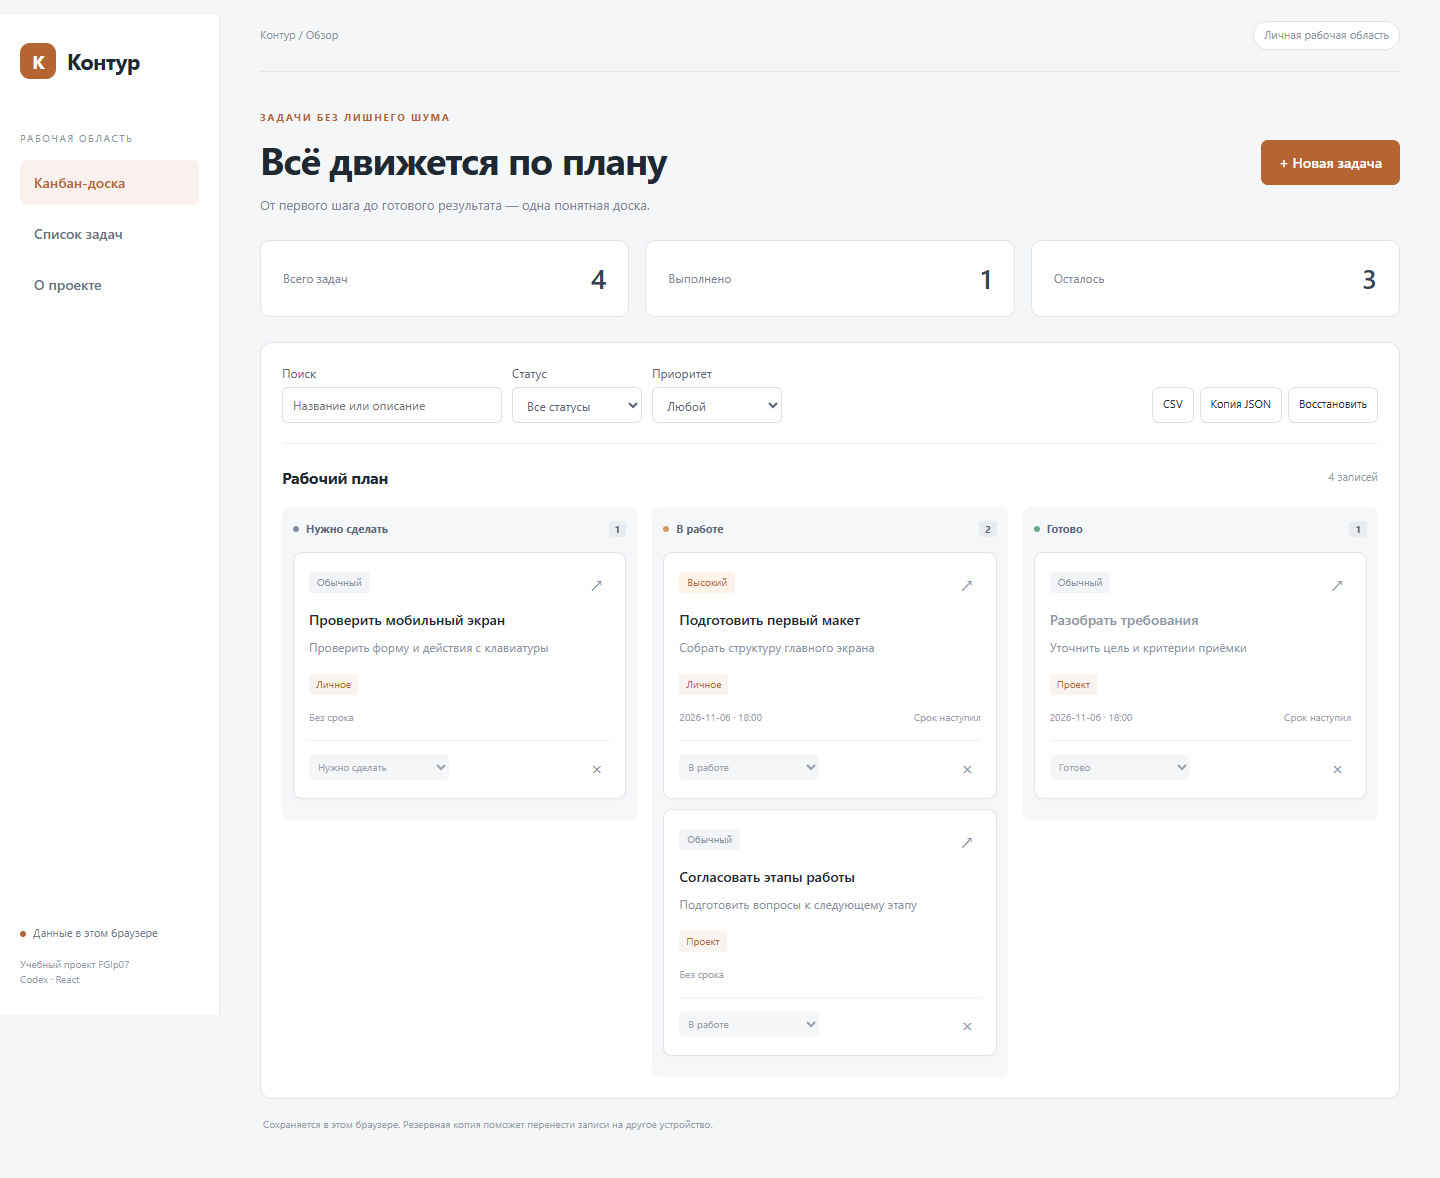
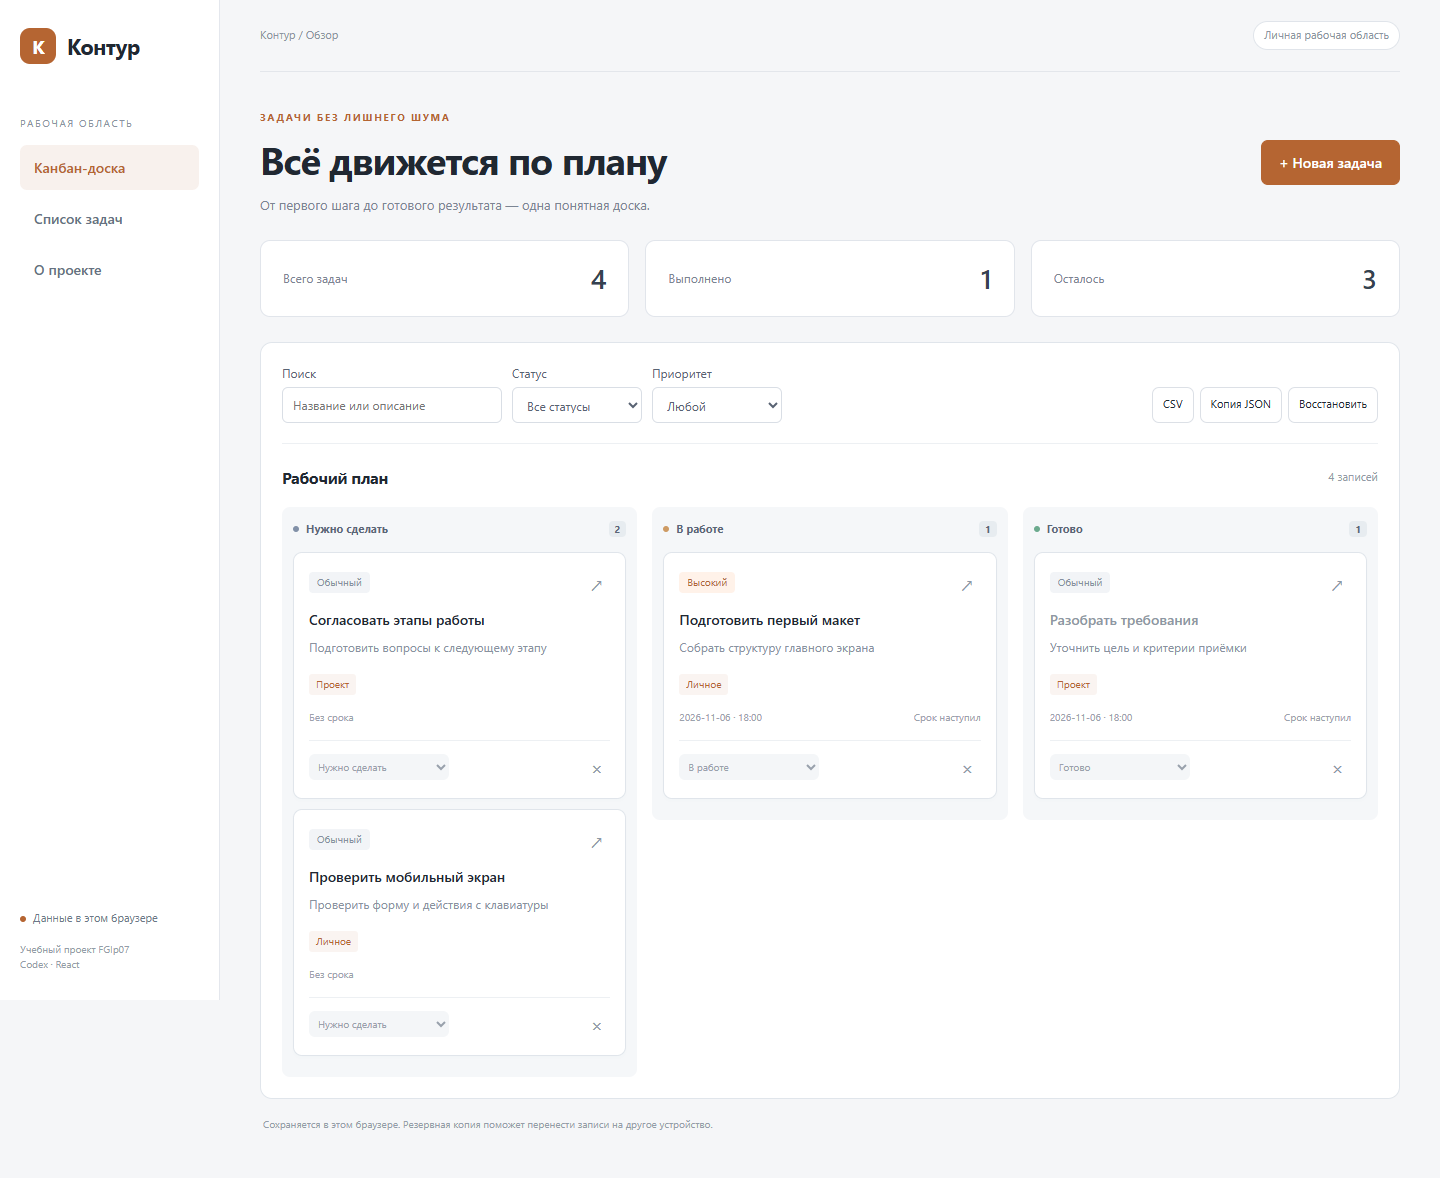
Document live GitVerse Pages links and verified handover

diff --git a/info/CASE.md b/info/CASE.md
@@ -1,0 +1,30 @@
+# Контур
+
+## Задача
+
+Небольшое todo-приложение на React. Детальное ТЗ упомянуто во вложении, которое в открытом просмотре недоступно; для учебного MVP составлена собственная спецификация.
+
+Источник: https://www.fl.ru/projects/5026526/todo-prilojenie-na-react.html
+
+## Что разработал
+
+React; создание, редактирование и удаление задач; три статуса на канбан-доске и список; поиск и приоритеты; сроки; управление с клавиатуры; локальное сохранение; JSON-копия.
+
+Реализовал приложение в Codex на React. Данные сохраняются в браузере, доступны резервная копия и восстановление. Готовый сайт разместил на GitVerse Pages. Общая база и синхронизация устройств не входят в эту версию.
+
+Рабочий сайт: https://denis-zag.gitverse.site/react-kontur/
+Исходники: https://github.com/Denis-Zag/fgip07-react-kontur
+
+## Проверка
+
+16 локальных браузерных сценариев и три проверки опубликованной версии прошли. Проверил работу с записями, перезапуск, ошибки хранения и клавиатуру; ширины 390/768/1440 px. Подробный отчёт: TEST_RESULTS.md.
+
+## Передача и цена
+
+Передаю исходники, готовую папку public, тесты, ТЗ и инструкцию DEPLOY.md для бесплатного размещения на GitVerse Pages под аккаунтом заказчика. Предварительная цена аналогичной разработки — 10 000 ₽. Это моя оценка, а не полученная оплата.
+
+## Границы
+
+Объявление архивное, исполнитель выбран. Недоступное вложение не прочитано. Канбан, приоритеты, фильтры и резервная копия — собственные учебные решения; соответствие закрытому вложению не заявляется.
+
+Учебный кейс по реальному объявлению; заказчику не писал, согласования и приёмки не проводил.

diff --git a/README.md b/README.md
@@ -2,7 +2,7 @@
 
 Небольшой трекер задач на React. Самостоятельный учебный проект FGIp07. Разработка выполнена в Codex.
 
-[Адрес приложения после публикации](https://denis-zag.gitverse.site/fgip07-react-kontur/) · [Исходное объявление](https://www.fl.ru/projects/5026526/todo-prilojenie-na-react.html)
+[Открыть приложение](https://denis-zag.gitverse.site/react-kontur/) · [Исходное объявление](https://www.fl.ru/projects/5026526/todo-prilojenie-na-react.html)
 
 ## Возможности
 
@@ -42,7 +42,7 @@ npm test
 
 ## Размещение на GitVerse Pages
 
-Выбран бесплатный тариф GitVerse Pages: статический сайт без отдельного платного сервера. Сборка — каталог `public`. Репозиторий публичный; включены CI/CD и Pages, источник «Ветка», ветка `main`, папка `/public`. Статус реального размещения фиксируется отдельно после успешной публикации.
+Выбран бесплатный тариф GitVerse Pages: статический сайт без отдельного платного сервера. Сборка — каталог `public`. Репозиторий публичный; включены CI/CD и Pages, источник «Ветка», ветка `main`, папка `/public`. Публичный сайт проверен: запуск, сохранение записей и мобильная вёрстка. Готовая сборка совпадает с проверенной локальной версией с учётом перевода строк.
 
 Инструкция для заказчика уже входит в комплект: info/DEPLOY.md. Она описывает такой же бесплатный вариант под аккаунтом заказчика. Railway и Sites не используются как вариант передачи.
 

diff --git a/info/TEST_RESULTS.md b/info/TEST_RESULTS.md
@@ -24,3 +24,9 @@
 Проверены ширины 390, 768, 1440 px. Ошибки хранилища и конфликт вкладок смоделированы в браузере; физические телефоны и другие браузерные движки не проверялись. Это функциональные проверки, не нагрузочный тест и не аудит безопасности. Данные примера вымышлены.
 
 Ручная проверка перед коммерческой передачей: реальные устройства заказчика, согласованное ТЗ, настройки браузера и резервное копирование.
+
+## Проверка реального размещения
+
+GitVerse Pages: https://denis-zag.gitverse.site/react-kontur/
+
+HTML, JavaScript и CSS получены с HTTP 200. Код и стили совпадают с проверенной сборкой после нормализации перевода строк Windows. На публичном адресе дополнительно прошли три проверки в отдельном Chrome: загрузка приложения и демопримера, сохранение после обновления, мобильная ширина 390 px и открытие/закрытие меню. Ошибок JavaScript не обнаружено. Финальный и мобильный скриншоты сняты с этого публичного адреса.

diff --git a/info/DEPLOY.md b/info/DEPLOY.md
@@ -8,7 +8,7 @@
 
 ## Как заказчику разместить на своём GitVerse
 
-1. Войдите в свой аккаунт GitVerse. Откройте репозиторий проекта https://gitverse.ru/Denis-Zag/fgip07-react-kontur и создайте форк в своём аккаунте. Альтернатива: создайте новый публичный репозиторий и загрузите файлы комплекта; папки .git, node_modules и .qa не загружайте.
+1. Войдите в свой аккаунт GitVerse. Откройте репозиторий проекта https://gitverse.ru/Denis-Zag/react-kontur и создайте форк в своём аккаунте. Альтернатива: создайте новый публичный репозиторий и загрузите файлы комплекта; папки .git, node_modules и .qa не загружайте.
 2. В настройках своего репозитория включите CI/CD.
 3. Откройте Настройки → Страницы. Включите GitVerse Pages. Выберите источник «Ветка», ветку main, папку /public и сохраните.
 4. Дождитесь успешной сборки и возьмите адрес на той же странице настроек. Он будет вида https://ваш-логин.gitverse.site/имя-репозитория/. Используйте фактическую ссылку GitVerse.
